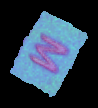
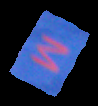
fix color detection

diff --git a/vision/color_detection.py b/vision/color_detection.py
@@ -6,67 +6,63 @@ from collections import Counter
 custom_colors_hsv = {
     'white':  (0,   0,   255),
     'black':  (0,   0,   0),
-    'red':    (0,   200, 200),
-    'orange': (20,  180, 240),
-    'brown':  (20,  150, 100),
+    'red_low': (0,   200, 200),
+    'orange': (11,  180, 240),
+    'brown':  (5,  150, 100),
     'yellow': (30,  200, 250),
     'green':  (60,  200, 200),
     'blue':   (120, 200, 200),
-    'purple': (150, 180, 180)
+    'purple': (140, 180, 180),
+    'red_high': (160, 200, 200)
 }
 
 def closest_hsv(requested_hsv):
     requested_h = int(requested_hsv[0])
-    requested_s = int(requested_hsv[1])
-    requested_v = int(requested_hsv[2])
-
+    # print(f"Requested hue: {requested_h}")
     distances = {}
     for name, hsv in custom_colors_hsv.items():
         h = int(hsv[0])
-        s = int(hsv[1])
-        v = int(hsv[2])
 
-        h_diff = min(abs(h - requested_h), 180 - abs(h - requested_h))  # Circular hue
-        s_diff = s - requested_s
-        v_diff = v - requested_v
-
-        distance = np.sqrt((3 * h_diff) ** 2 + (2 * s_diff) ** 2 + (1 * v_diff) ** 2)
-        distances[name] = distance
-        # print(f"{name}: distance = {distance:.2f}")
-
+        h_diff = min(abs(h - requested_h), 180 - abs(h - requested_h)) # this should handle red wrap around
+        distances[name] = h_diff
+        # print(f"{name}: hue diff = {h_diff}")
+    # Find the minimum hue difference
+    min_diff = min(distances.values())
+    candidates = [name for name, diff in distances.items() if diff == min_diff]
+    
+    # If multiple colors tie, prioritize 'red_low' or 'red_high' for hues near red (0-10 or 160-180)
+    if len(candidates) > 1 and requested_h >= 160 or requested_h <= 10:
+        for red_name in ['red_low', 'red_high']:
+            if red_name in candidates:
+                return red_name
     return min(distances, key=distances.get)
+
 
 def detect_color_from_array(image_array):
     if image_array is None or image_array.size == 0:
         raise ValueError("Empty or invalid image array.")
 
-    # Convert BGR to RGB and find most common RGB
-    rgb_image = cv2.cvtColor(image_array, cv2.COLOR_BGR2RGB)
-    rgb_reshaped = rgb_image.reshape(-1, 3)
-    rgb_counts = Counter(map(tuple, rgb_reshaped))
-    most_common_rgb = rgb_counts.most_common(1)[0][0]
-    most_common_rgb = tuple(int(x) for x in most_common_rgb)
-    # print("Most common RGB:", most_common_rgb)
-
     # Convert BGR to HSV and find most common HSV
-    hsv_image = cv2.cvtColor(image_array, cv2.COLOR_BGR2HSV)
+    hsv_image = cv2.cvtColor(image_array, cv2.COLOR_RGB2HSV)
     hsv_reshaped = hsv_image.reshape(-1, 3)
-    hsv_counts = Counter(map(tuple, hsv_reshaped))
-    most_common_hsv = hsv_counts.most_common(1)[0][0]
-    most_common_hsv = tuple(int(x) for x in most_common_hsv)
-    # print("Most common HSV:", most_common_hsv)
 
-    color_name = closest_hsv(most_common_hsv)
+    remove_black = [pixel for pixel in hsv_reshaped if not (pixel[0] == 0 and pixel[1] == 0 and pixel[2] == 0)]
+
+    mean_hsv = np.mean(remove_black, axis=0)
+    color_name = closest_hsv(mean_hsv)
+
+    if color_name in ('yellow', 'orange', 'brown'):
+        h, s, v = mean_hsv
+        if v < 140:
+            color_name = 'brown'
+        elif h >= 20 and h <= 35:
+            if v >= 200 and s >= 150:
+                color_name = 'yellow'
+            elif v >= 150:
+                color_name = 'orange'
+            else:
+                color_name = 'brown'
+    if color_name in ('red_low', 'red_high'):
+        color_name = 'red'
     # print("Closest color name:", color_name)
     return color_name
-
-'''
-image = cv2.imread('Downloads/t1.jpg')
-detect_color_from_array(image)
-
-image = cv2.imread('Downloads/t2.JPG')
-detect_color_from_array(image)
-
-image = cv2.imread('Downloads/t10.jpg')
-detect_color_from_array(image)
-'''

diff --git a/vision/detector.py b/vision/detector.py
@@ -7,16 +7,16 @@ from vision.text_detection import predict_text
 
 def detect(img_path):
     img = cv2.imread(img_path)
-    img = cv2.cvtColor(img, cv2.COLOR_BGR2HSV)
+    img = cv2.rotate(img, cv2.ROTATE_90_CLOCKWISE)
 
     # get masks
     centroids, shape_masks, text_masks = get_shape_text_masks(img)
 
     for i in range(len(shape_masks)):
-        cv2.imwrite(f"{img_path}.shape_mask_{i}.png", shape_masks[i])
+        cv2.imwrite(f"{img_path}.shape_mask_{i}.png", cv2.cvtColor(shape_masks[i], cv2.COLOR_RGB2BGR))
 
     for i in range(len(text_masks)):
-        cv2.imwrite(f"{img_path}.text_mask_{i}.png", text_masks[i])
+        cv2.imwrite(f"{img_path}.text_mask_{i}.png", cv2.cvtColor(text_masks[i], cv2.COLOR_RGB2BGR))
 
     shape_mask = shape_masks[0]
     text_mask = text_masks[0]
